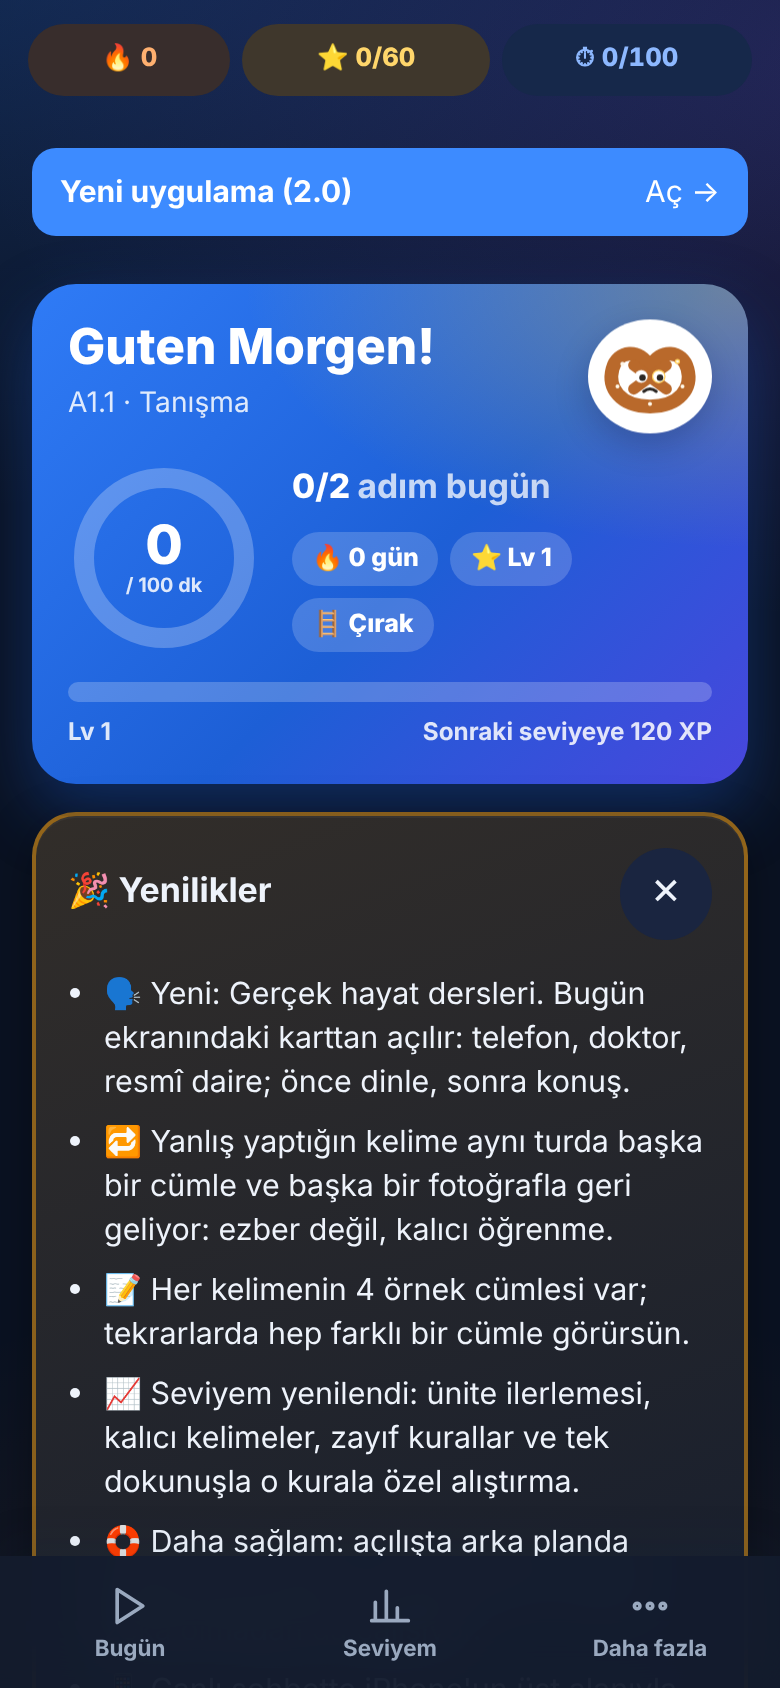
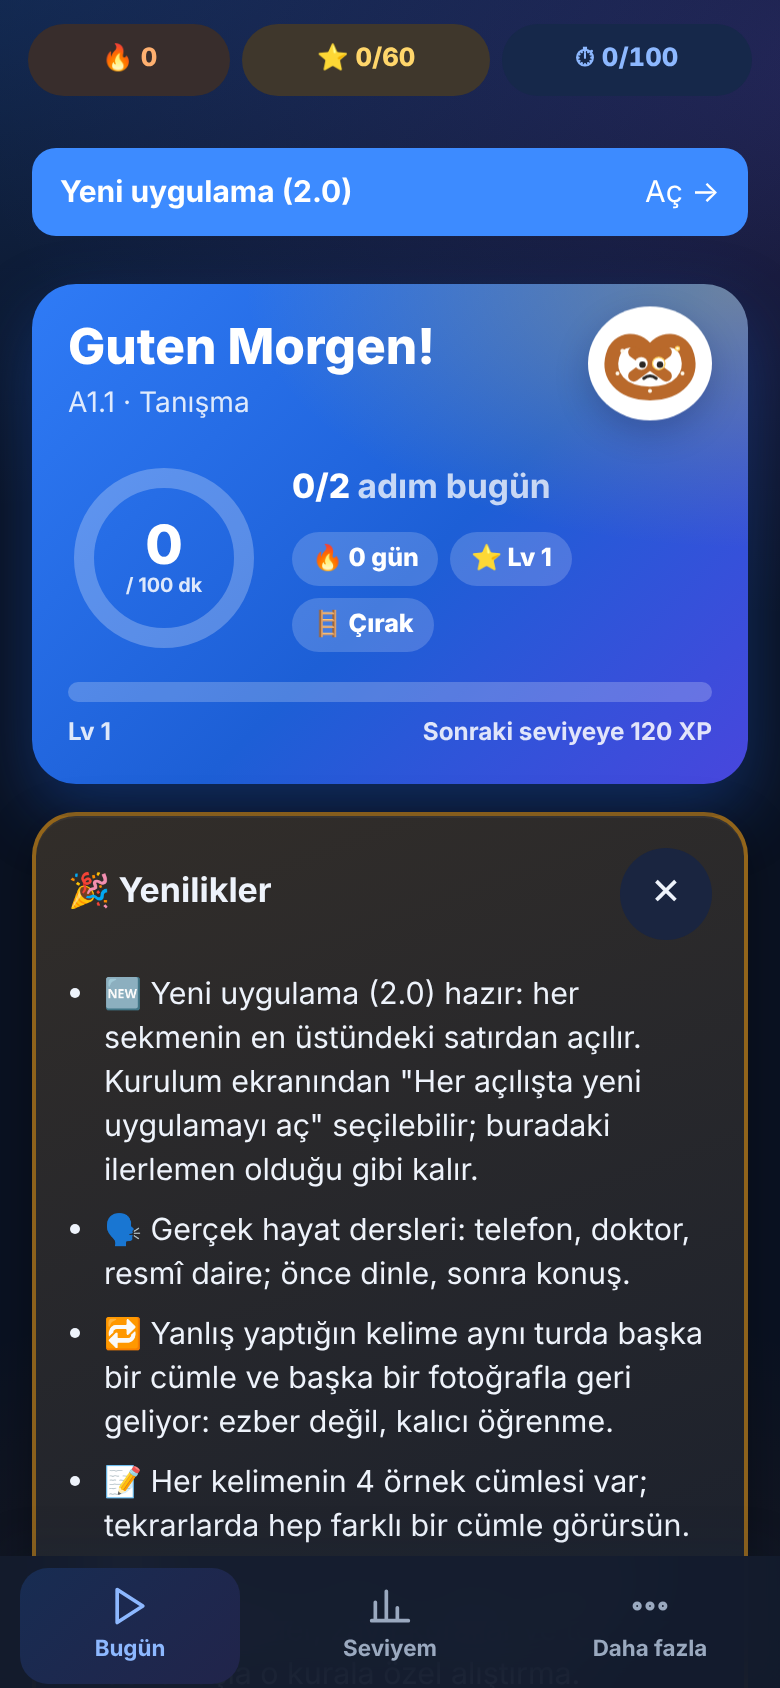
v1: smoke_all'da v2 geçiş denetimi (bant, ayar, yönlendirme, ?v1); güncel Yenilikler ekran görüntüsü
Claude-Session: https://claude.ai/code/session_016gishG3oMjbKiLi4Fij94B

Changed region(s): [[0.0, 0.5545, 0.8923, 1.0], [0.7385, 0.1848, 0.9231, 0.2773]]

diff --git a/app/tests/smoke_all.py b/app/tests/smoke_all.py
@@ -18,6 +18,24 @@ async def main():
             await pg.evaluate("ACT.sessPause()"); await pg.wait_for_timeout(150); await pg.evaluate("ACT.sessResume()"); await pg.wait_for_timeout(300)
             print(c, await pg.evaluate("[S.view, !!S.sess, S.sess && !!S.sess.paused]"))
         await pg.evaluate("sessEnd()")
+        # v2'ye geçiş (PM 7025664499): sekmelerde "Yeni uygulama → Aç" bandı; Kurulum'da "her açılışta yeni uygulamayı aç" ayarı; ?v1 ile v1'de kalınır
+        gec = []
+        for v in ["plan", "seviye", "more"]:
+            await pg.evaluate(f"location.hash='{v}'"); await pg.wait_for_timeout(200)
+            if await pg.locator("[data-test=v2-bant]").count() != 1 or await pg.get_attribute("[data-test=v2-bant]", "href") != "./v2/": gec.append(f"bant yok: {v}")
+        await pg.evaluate("location.hash='kurulum'"); await pg.wait_for_timeout(300)
+        kutu = pg.locator("[data-test=v2-ac]")
+        if await kutu.count() != 1 or await kutu.is_checked(): gec.append("kurulum: ayar kutusu yok ya da açık başlıyor")
+        else:
+            await kutu.check(); await pg.wait_for_timeout(100)
+            if await pg.evaluate("localStorage.getItem('dw-v2-ac')") != "1": gec.append("ayar kaydedilmedi")
+            await pg.goto("http://localhost:8765/index.html"); await pg.wait_for_timeout(600)
+            if "/v2/" not in pg.url: gec.append(f"ayar açıkken /v2/'ye yönlenmedi ({pg.url})")
+            await pg.goto("http://localhost:8765/index.html?v1#plan"); await pg.wait_for_timeout(1200)
+            if "/v2/" in pg.url or await pg.locator("[data-test=v2-bant]").count() != 1: gec.append(f"?v1 ile v1'de kalınmadı ({pg.url})")
+            await pg.evaluate("localStorage.setItem('dw-v2-ac','0')")
+        errs += [f"v2 geçiş: {g}" for g in gec]
+        print("v2 geçiş:", "✓" if not gec else gec)
         print("views:", len(views), "errors:", errs)
         await b.close()
 asyncio.run(main())
